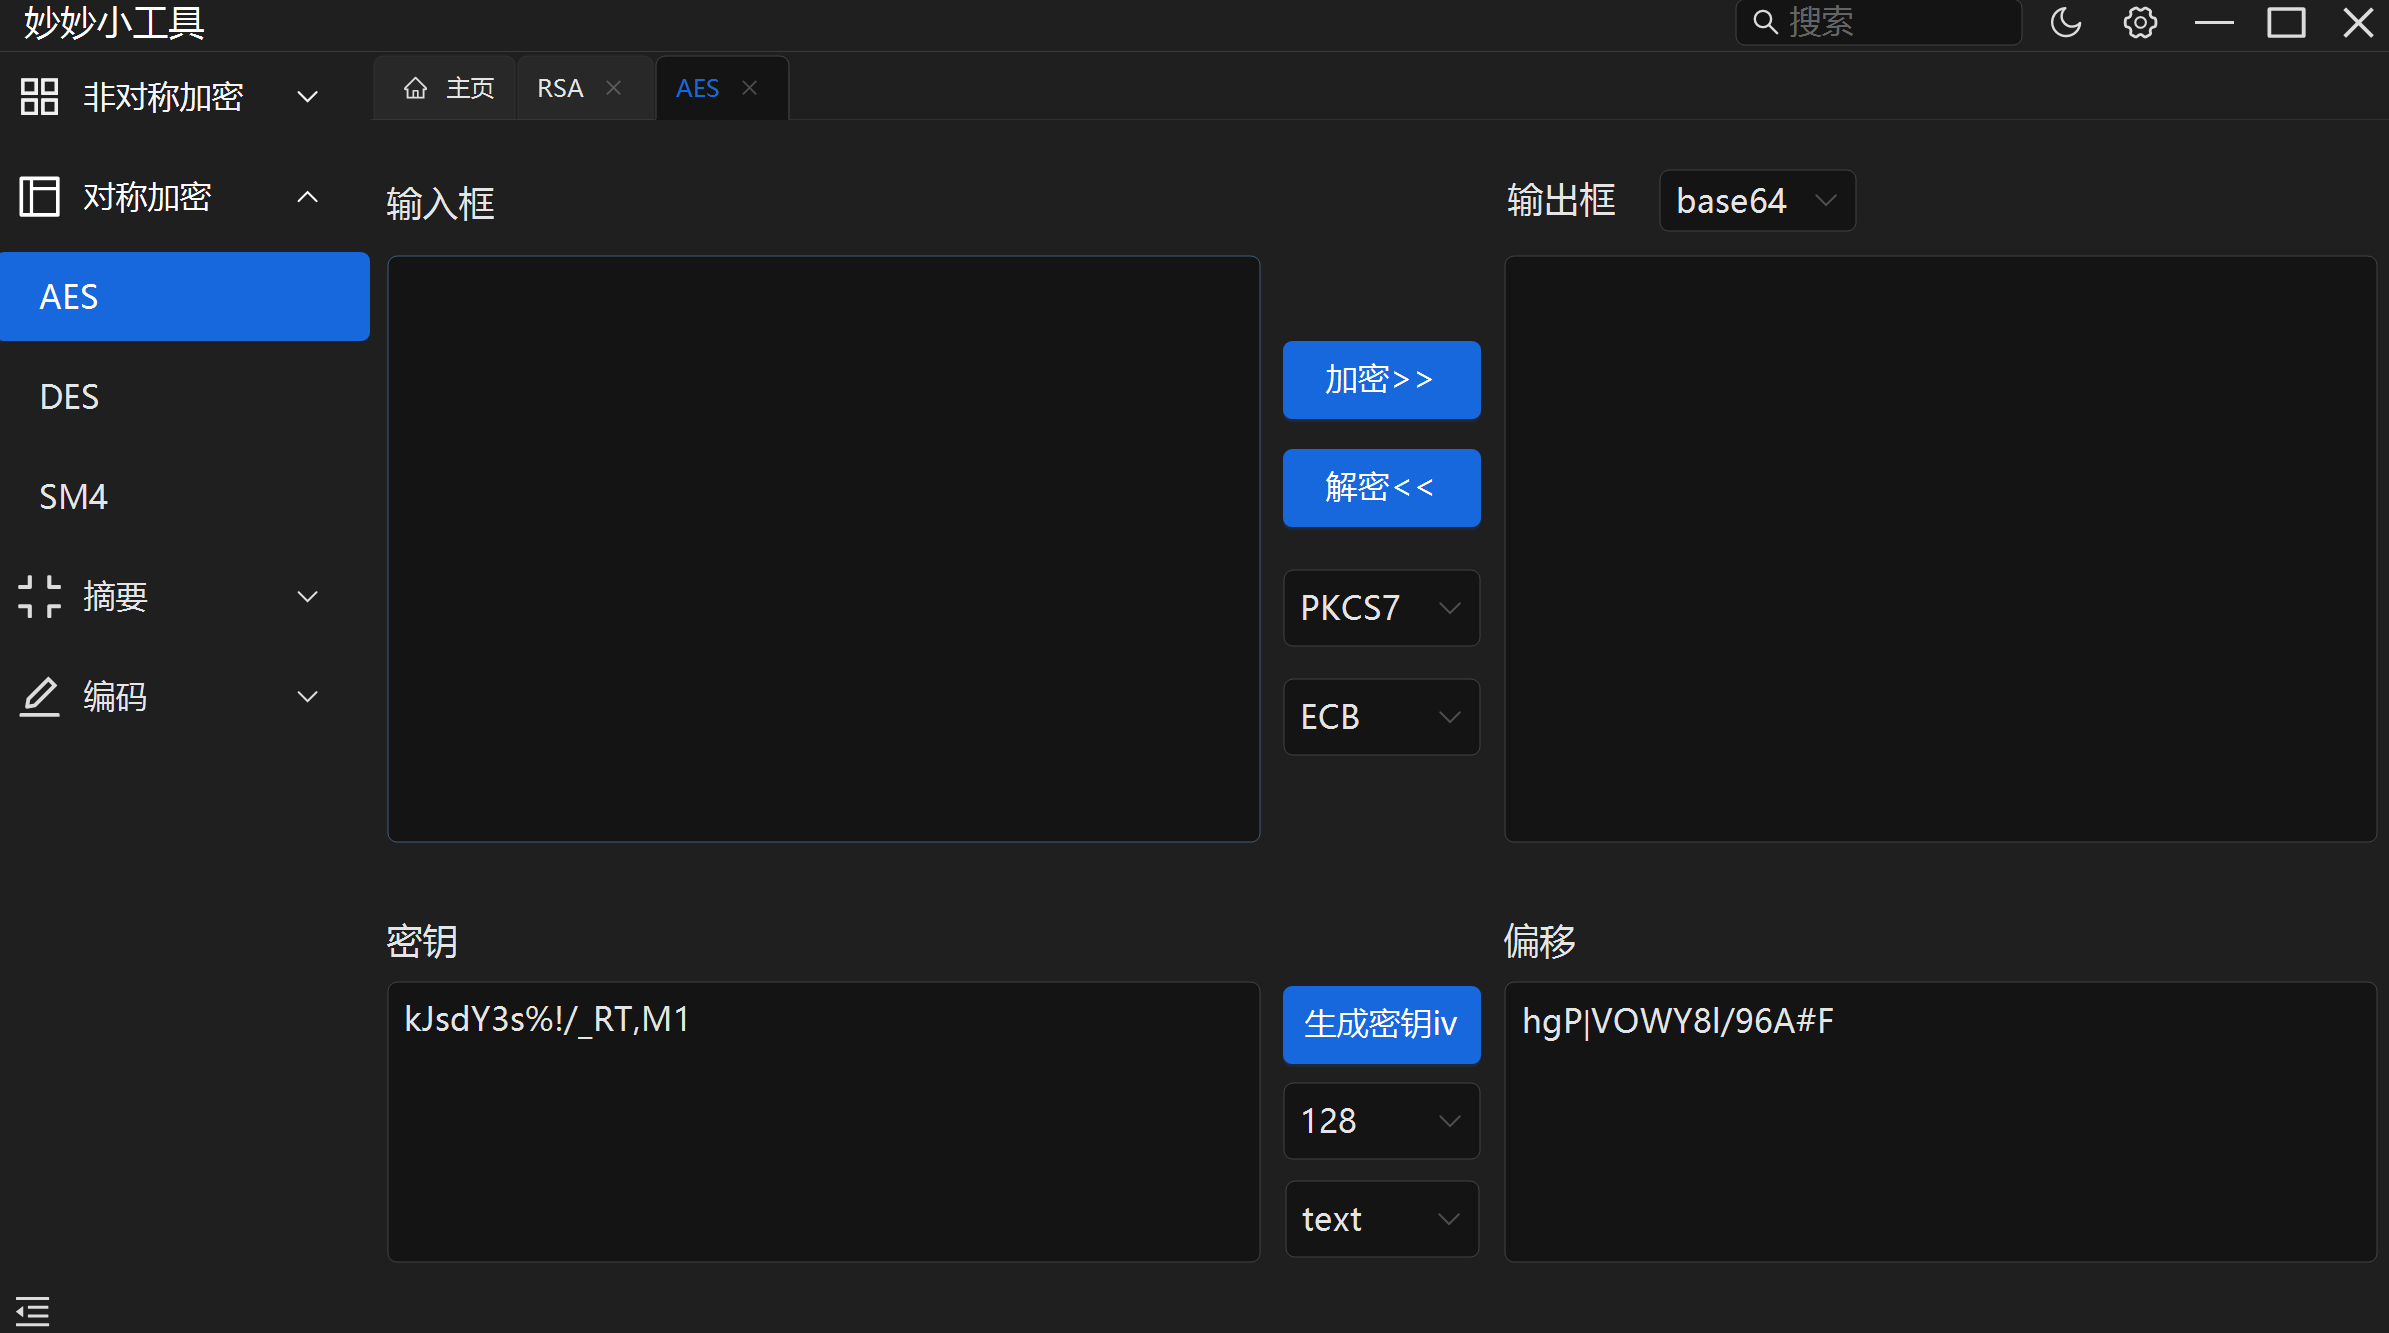
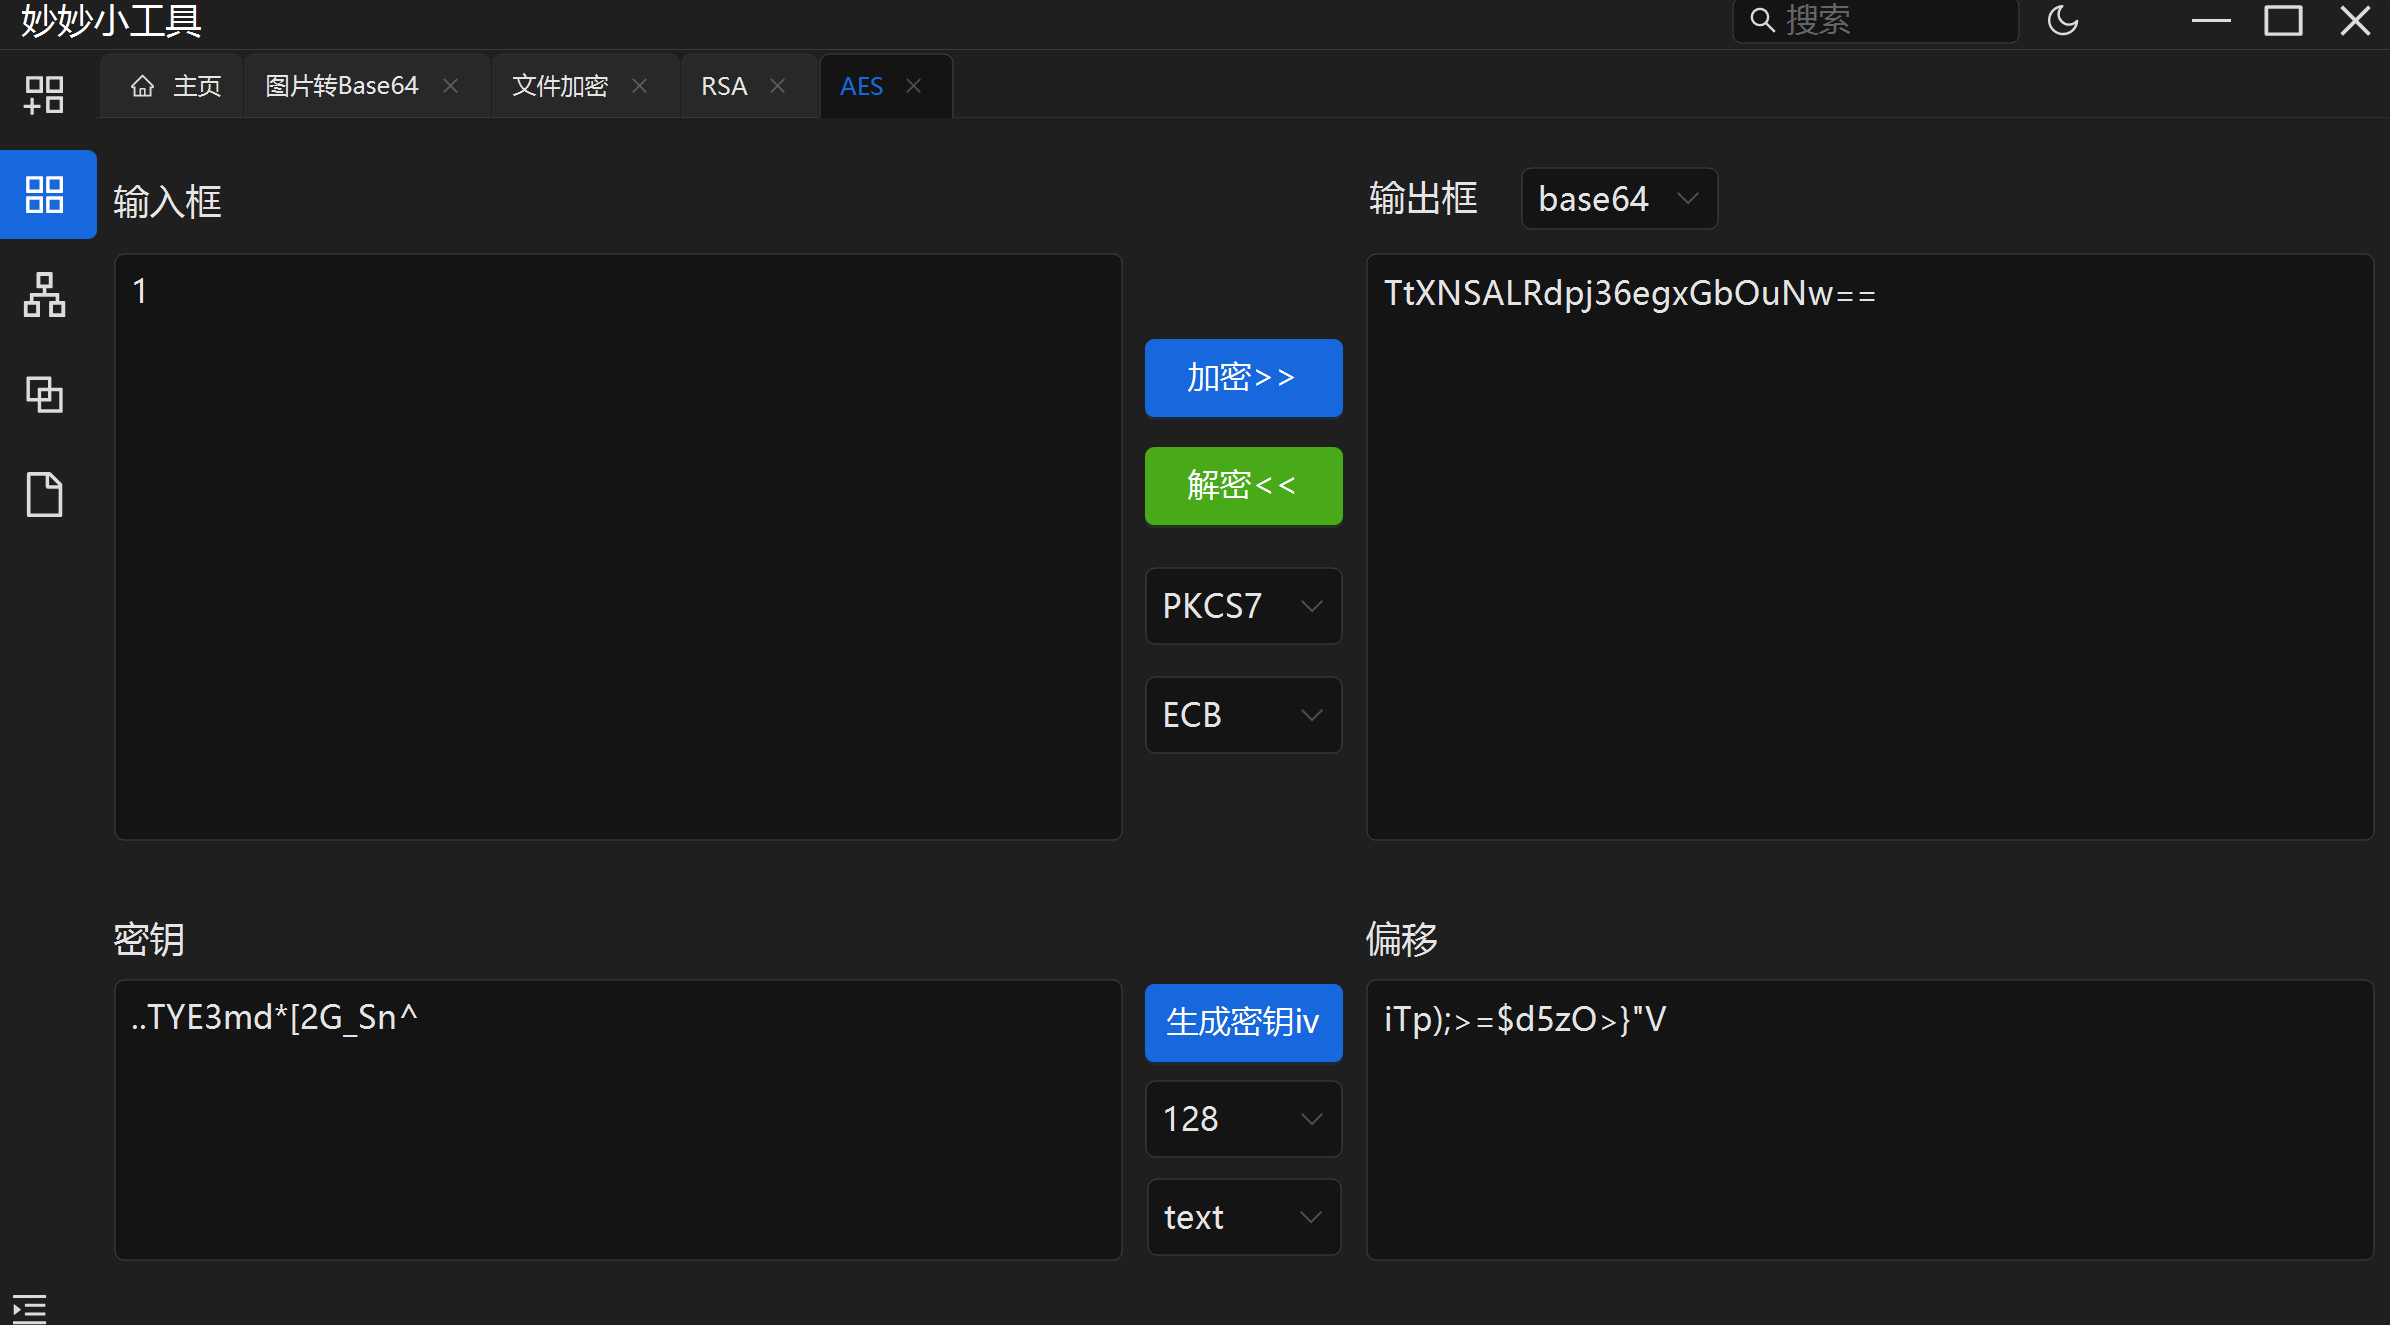
base64转换图片预览，README更新说明

diff --git a/View/Img2Base64Form.cs b/View/Img2Base64Form.cs
@@ -76,7 +76,8 @@ namespace LittleFancyTool.View
         {
             DateTime startTime = DateTime.Now;
             string[] filePaths = e.Value;
-            Task task = new Task(() => {
+            Task task = new Task(() =>
+            {
                 pictureBox.Image = Image.FromFile(filePaths[0]);
             });
             task.Start();
@@ -87,7 +88,8 @@ namespace LittleFancyTool.View
         {
             if (pictureBox.Image != null)
             {
-                SaveFileDialog saveFileDialog = new SaveFileDialog {
+                SaveFileDialog saveFileDialog = new SaveFileDialog
+                {
                     FileName = "base64ToImg",
                 };
                 saveFileDialog.Filter = "PNG 图片|*.png|GIF 图片|*.gif|JPEG 图片|*.jpg;*.jpeg";
@@ -107,6 +109,20 @@ namespace LittleFancyTool.View
             else
             {
                 AntdUI.Message.warn(window, "没有图片可供保存。", autoClose: 3);
+            }
+        }
+
+        private void pictureBox_Click(object sender, EventArgs e)
+        {
+            if (pictureBox.Image != null)
+            {
+                IList<Image> images = new List<Image>();
+                images.Add(pictureBox.Image);
+                Preview.open(new Preview.Config(window, images));
+            }
+            else
+            {
+                AntdUI.Message.warn(window, "没有图片可以预览。", autoClose: 3);
             }
         }
     }

diff --git a/View/Img2Base64Form.Designer.cs b/View/Img2Base64Form.Designer.cs
@@ -56,7 +56,7 @@ namespace LittleFancyTool.View
             encryptBtn.Name = "encryptBtn";
             encryptBtn.Size = new Size(140, 60);
             encryptBtn.TabIndex = 0;
-            encryptBtn.Text = "加密>>";
+            encryptBtn.Text = "编码>>";
             encryptBtn.Type = TTypeMini.Primary;
             encryptBtn.Click += encryptBtn_Click;
             // 
@@ -69,8 +69,8 @@ namespace LittleFancyTool.View
             decryptBtn.Name = "decryptBtn";
             decryptBtn.Size = new Size(140, 60);
             decryptBtn.TabIndex = 1;
-            decryptBtn.Text = "解密<<";
-            decryptBtn.Type = TTypeMini.Primary;
+            decryptBtn.Text = "解码<<";
+            decryptBtn.Type = TTypeMini.Success;
             decryptBtn.Click += decryptBtn_Click;
             // 
             // outputTextBox
@@ -176,6 +176,7 @@ namespace LittleFancyTool.View
             pictureBox.SizeMode = PictureBoxSizeMode.Zoom;
             pictureBox.TabIndex = 6;
             pictureBox.TabStop = false;
+            pictureBox.Click += pictureBox_Click;
             // 
             // tableLayoutPanel3
             // 

diff --git a/View/Base64Form.Designer.cs b/View/Base64Form.Designer.cs
@@ -49,7 +49,7 @@
             encryptBtn.Name = "encryptBtn";
             encryptBtn.Size = new Size(140, 60);
             encryptBtn.TabIndex = 0;
-            encryptBtn.Text = "加密>>";
+            encryptBtn.Text = "编码>>";
             encryptBtn.Type = AntdUI.TTypeMini.Primary;
             encryptBtn.Click += encryptButton_Click;
             // 
@@ -62,8 +62,8 @@
             decryptBtn.Name = "decryptBtn";
             decryptBtn.Size = new Size(140, 60);
             decryptBtn.TabIndex = 1;
-            decryptBtn.Text = "解密<<";
-            decryptBtn.Type = AntdUI.TTypeMini.Primary;
+            decryptBtn.Text = "解码<<";
+            decryptBtn.Type = AntdUI.TTypeMini.Success;
             decryptBtn.Click += decryptButton_Click;
             // 
             // inputTextBox

diff --git a/View/RSAForm.Designer.cs b/View/RSAForm.Designer.cs
@@ -75,7 +75,7 @@ namespace CryptoTool.View
             rsaDecryptBtn.Size = new Size(140, 60);
             rsaDecryptBtn.TabIndex = 1;
             rsaDecryptBtn.Text = "解密<<";
-            rsaDecryptBtn.Type = AntdUI.TTypeMini.Primary;
+            rsaDecryptBtn.Type = AntdUI.TTypeMini.Success;
             rsaDecryptBtn.Click += rsaDecryptButton_Click;
             // 
             // rsaPaddingModeComboBox

diff --git a/View/SM2Form.Designer.cs b/View/SM2Form.Designer.cs
@@ -71,7 +71,7 @@
             decryptBtn.Size = new Size(140, 60);
             decryptBtn.TabIndex = 1;
             decryptBtn.Text = "解密<<";
-            decryptBtn.Type = AntdUI.TTypeMini.Primary;
+            decryptBtn.Type = AntdUI.TTypeMini.Success;
             decryptBtn.Click += DecryptButton_Click;
             // 
             // paddingModeComboBox

diff --git a/View/AESForm.Designer.cs b/View/AESForm.Designer.cs
@@ -77,7 +77,7 @@
             decryptBtn.Size = new Size(140, 60);
             decryptBtn.TabIndex = 1;
             decryptBtn.Text = "解密<<";
-            decryptBtn.Type = AntdUI.TTypeMini.Primary;
+            decryptBtn.Type = AntdUI.TTypeMini.Success;
             decryptBtn.Click += decryptButton_Click;
             // 
             // inputTextBox

diff --git a/View/DESForm.Designer.cs b/View/DESForm.Designer.cs
@@ -76,7 +76,7 @@
             decryptBtn.Size = new Size(140, 60);
             decryptBtn.TabIndex = 1;
             decryptBtn.Text = "解密<<";
-            decryptBtn.Type = AntdUI.TTypeMini.Primary;
+            decryptBtn.Type = AntdUI.TTypeMini.Success;
             decryptBtn.Click += decryptButton_Click;
             // 
             // inputTextBox

diff --git a/View/SM4Form.Designer.cs b/View/SM4Form.Designer.cs
@@ -76,7 +76,7 @@
             decryptBtn.Size = new Size(140, 60);
             decryptBtn.TabIndex = 1;
             decryptBtn.Text = "解密<<";
-            decryptBtn.Type = AntdUI.TTypeMini.Primary;
+            decryptBtn.Type = AntdUI.TTypeMini.Success;
             decryptBtn.Click += decryptButton_Click;
             // 
             // inputTextBox

diff --git a/README.md b/README.md
@@ -1,14 +1,15 @@
 # 妙妙小工具 LittleFancyTool
 
-# 加密模块
+## 功能模块
 
-## 一、简介
+### 一、简介
 
-本工具加密模块是一款基于 Windows Forms 开发的桌面应用程序，旨在为用户提供多种加密算法，以保障数据的安全性。支持常见的加密算法如 RSA、SM2、AES、DES、SM4、MD5、SHA、SM3、Base64 等，方便用户根据不同需求对数据进行加密和解密操作。
+本工具是一款基于 Windows Forms 开发的桌面应用程序，旨在为用户提供多种常用加密解密和编码功能。支持常见的功能如 RSA、SM2、AES、DES、SM4、MD5、SHA、SM3 算法的加密解密、图像文本Base64转换，文件异步多线程加密解密。
 
-## 二、功能特点
+### 二、功能特点
 
-1. 多算法支持：
+1. #### 多算法加解密支持：
+   
    - **RSA**：一种非对称加密算法，可生成密钥对，公钥用于加密，私钥用于解密，支持多种密钥长度（如 512、1024、2048、4096 位）和填充方式（如 Pkcs1、OaepSHA1、OaepSHA256 等），适用于数字签名、密钥交换等场景。
    - **SM2**：我国自主设计的非对称加密算法，能生成密钥对，公钥加密、私钥解密。密钥长度通常 256 位，有 C1C3C2、C1C2C3 加密模式，用于数字签名、密钥交换、加密，安全高效。
    - **AES**：对称加密算法，加密和解密速度快，使用相同密钥，支持不同的填充方式（如 PKCS7、None、Zeros），常用于对大量数据的加密。
@@ -18,18 +19,26 @@
    - **SHA**：安全哈希算法家族，包含多个成员如 SHA - 1、SHA - 2（含 SHA - 256、 SHA - 384、SHA - 512 等）。能生成不同长度哈希值，SHA - 1 有安全隐患，SHA - 2 仍广泛用于数字签名、数据完整性验证等。
    - **SM3**：我国自主设计的密码哈希算法，可把任意长度数据转换为 256 位哈希值，具备高安全性和抗碰撞性，用于数字签名、认证等信息安全领域。
    - **Base64**：一种编码方式，虽不是严格意义上的加密算法，但可对数据进行简单的可逆转换，常用于数据传输过程中的编码。
-2. 密钥管理：
+   
+2. #### 密钥管理：
+   
    - 对于 RSA 算法，可在软件界面生成密钥对，公钥和私钥以 PEM 文本格式呈现，方便用户保存和使用。同时，在加密和解密时能确保使用对应的密钥对。
    - 其他对称加密算法如 AES、DES、SM4，可根据用户需求生成随机密钥和初始化向量，密钥和向量也能以合适的字符串格式（如十六进制字符串）展示，便于记录与后续使用。
-3. 界面交互：
+   
+3. #### 界面交互：
+   
    - 采用Antdui控件设计界面，通过菜单栏可轻松切换不同加密算法的操作界面，每个界面针对相应算法的特点布局了输入框、输出框、密钥框、加解密按钮以及相关参数设置下拉框（如密钥长度、填充方式）等控件，方便用户操作。
    - 界面具备自适应能力和自动dpi缩放。
 
-## 三、需求
+4. #### 其他功能
+
+   - 文件加密解密：AES对称加密算法，支持多文件输入异步多线程加密解密。
+
+## 需求
 
 - .net 8.0
 
-## 四、示例
+## 示例
 
 ![rsa](doc/pic/rsa.png)
 
@@ -38,3 +47,7 @@
 ![md5](doc/pic/md5.png)
 
 ![base64](doc/pic/base64.png)
+
+![pic2base64](doc/pic/pic2base64.png)
+
+![fileEncrypt](doc/pic/fileEncrypt.png)
